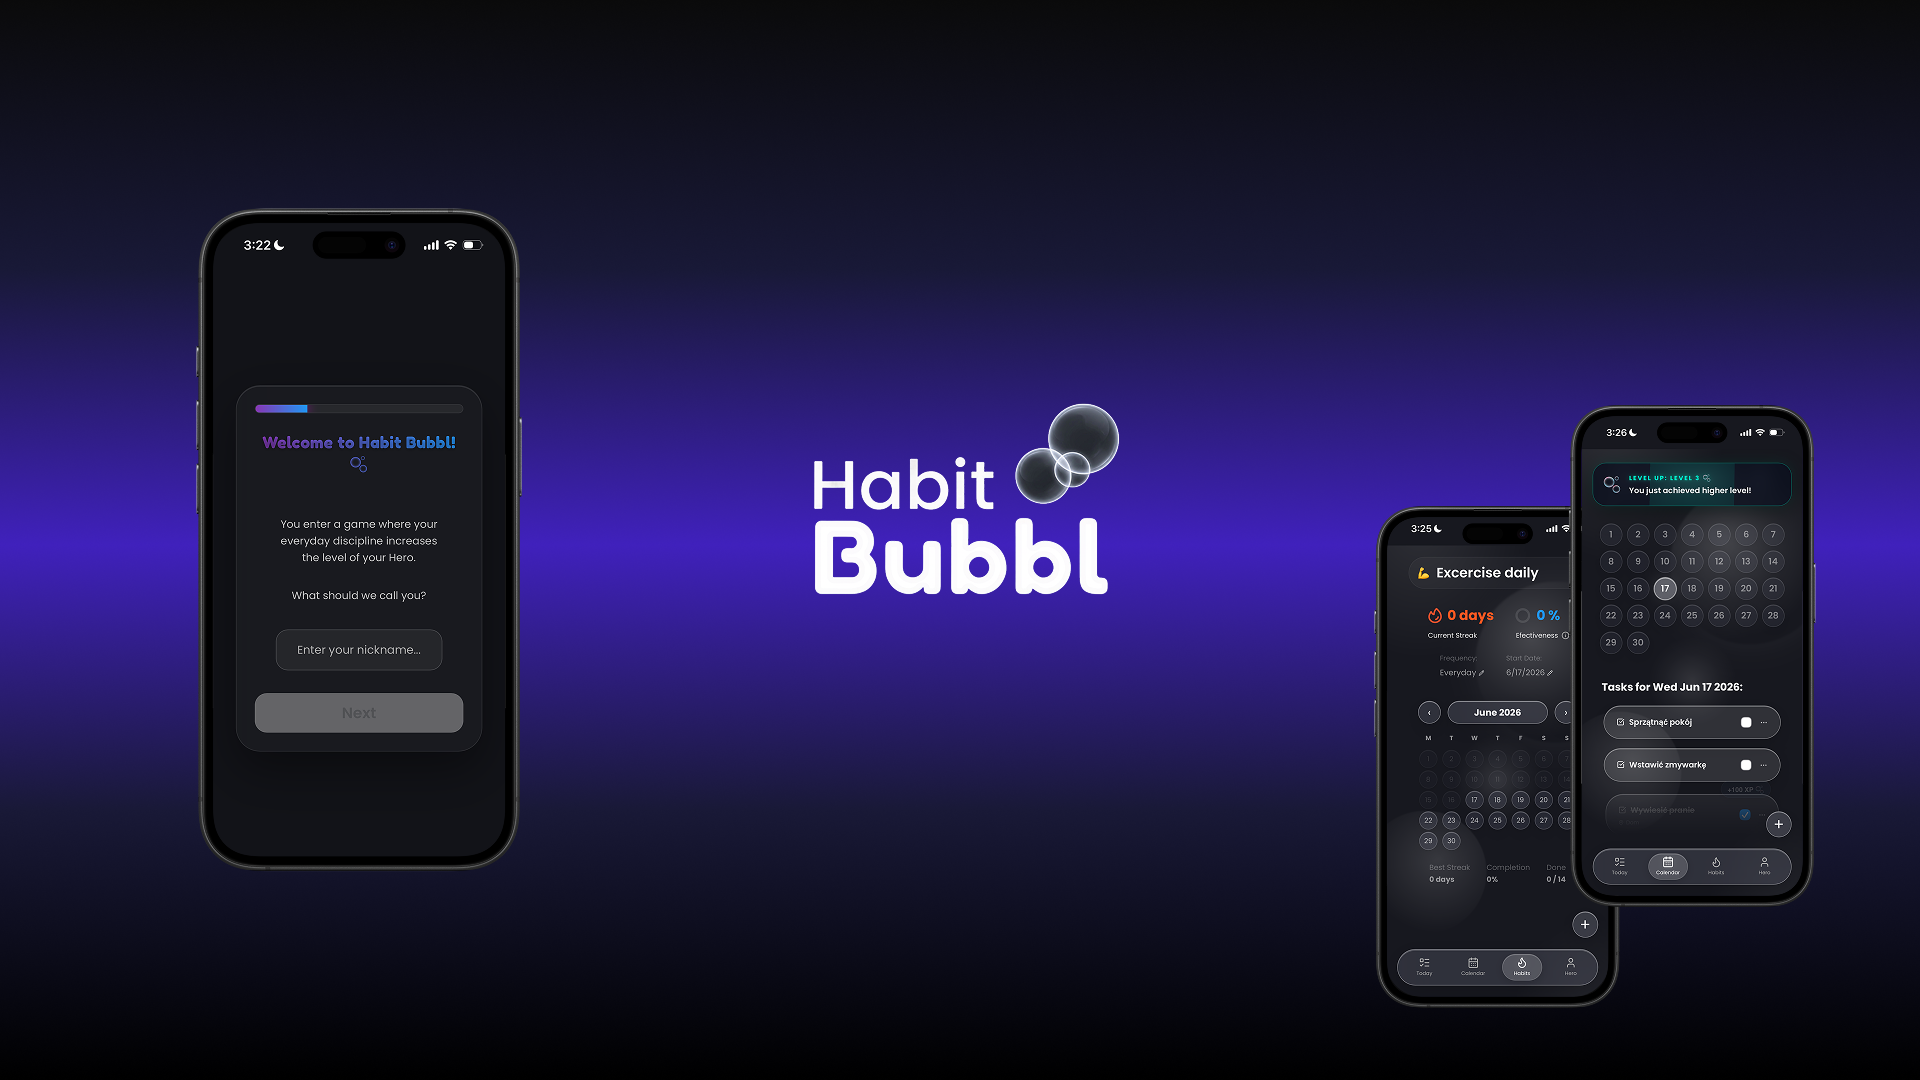
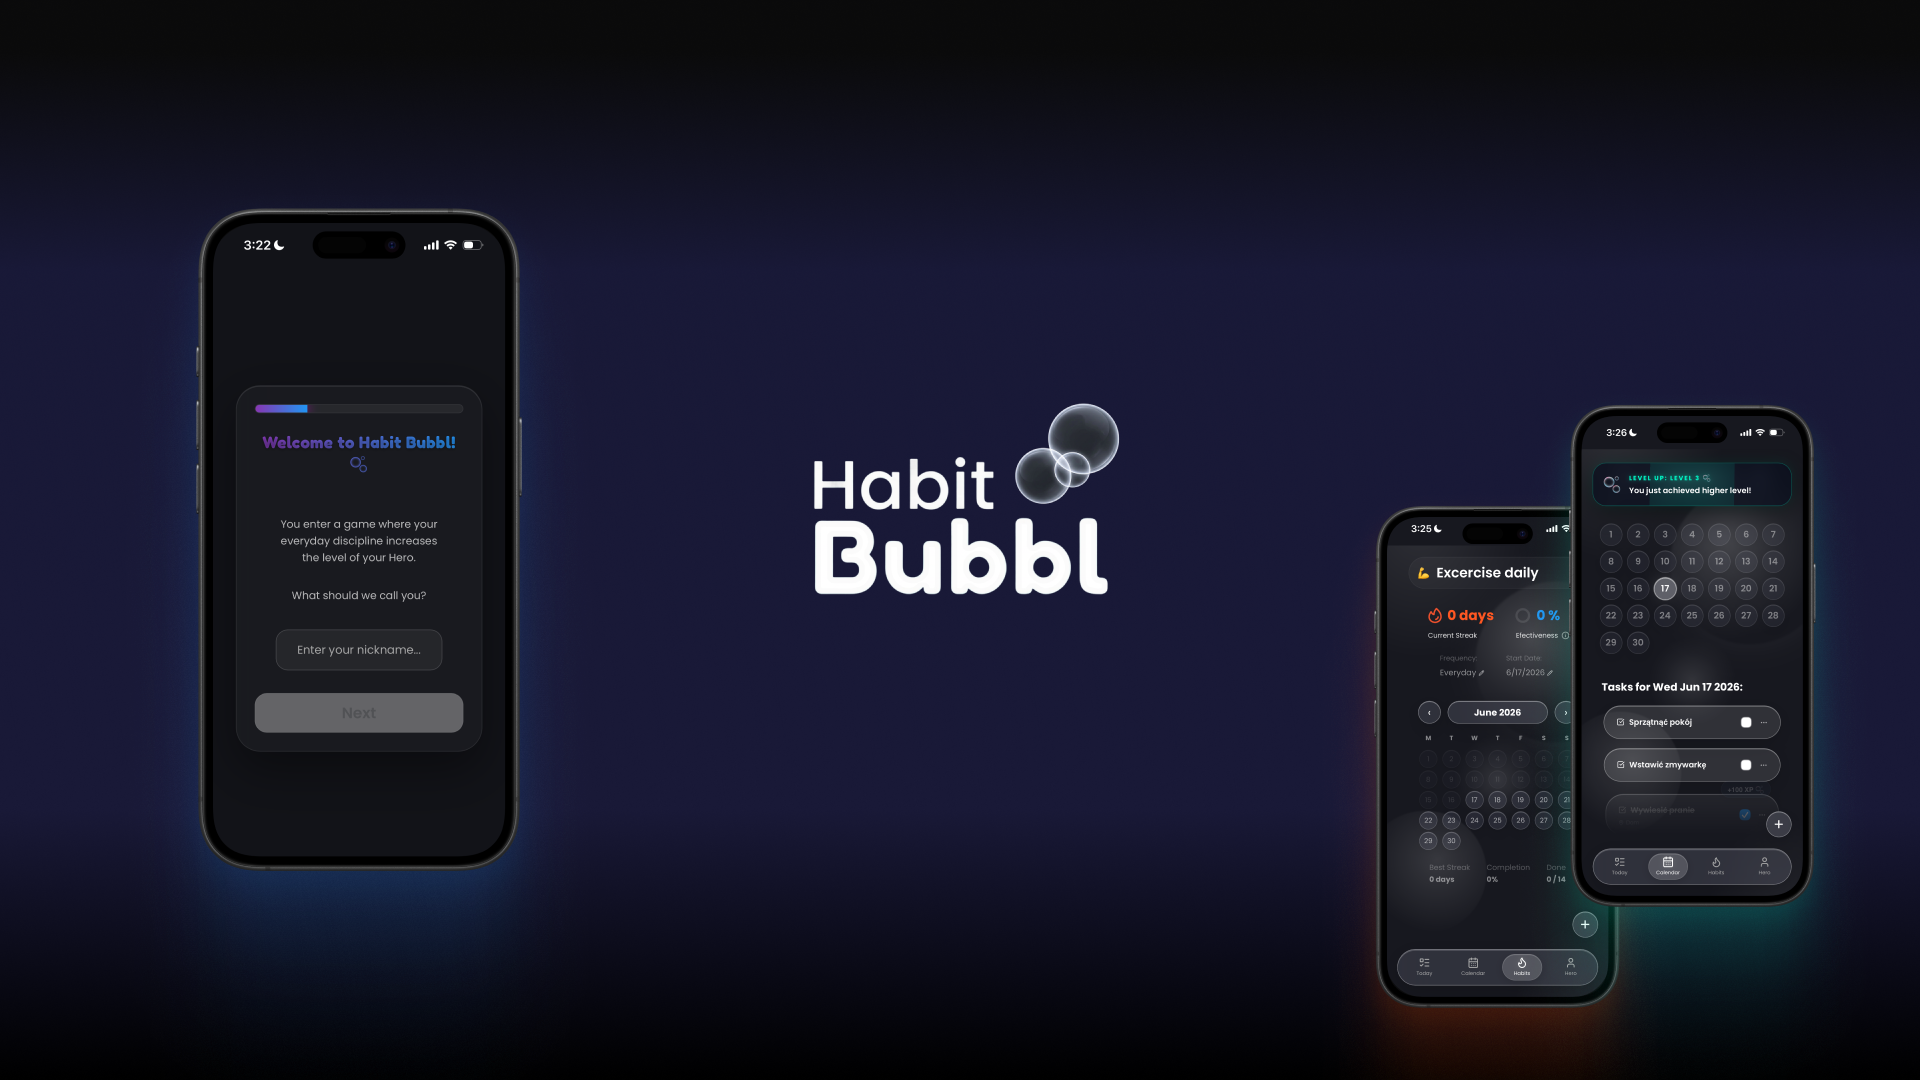
cv link in footer; graphics sizes in projects on main page are now unified; animation of card dealing is now more visible and more realistic; projects were moved to the projects folder; links begginings were unified - without a dot and slash

diff --git a/index.html b/index.html
@@ -501,6 +501,8 @@
         height: auto;
         max-width: 1100px;
         width: 88%;
+
+        will-change: transform, opacity;
       }
 
       .projectContainer:hover {
@@ -658,68 +660,10 @@
         transition: transform 0.3s;
         cursor: pointer;
       }
-      .gridGallery a:hover {
-        opacity: 84%;
-      }
-      /* ========================================================
-         EFEKT TALII KART (STARTOWY STAN PRZED WEJŚCIEM W WIDOK)
-         ======================================================== */
-      .reveal-section .projectContainer {
-        opacity: 0;
-        /* Startujemy w jednym punkcie (lekko przesunięte do środka, w dół i obrócone) */
-        transform: translateY(60px) scale(0.92)
-          rotate(var(--start-rotation, -2deg));
-        transition: transform 0.8s cubic-bezier(0.25, 1, 0.5, 1),
-          opacity 0.6s ease;
-      }
 
-      /* Nadajemy każdej karcie unikalną rotację startową, żeby imitowały zebraną talię */
-      .reveal-section .gridGallery > *:nth-child(1) .projectContainer {
-        --start-rotation: -3deg;
-      }
-      .reveal-section .gridGallery > *:nth-child(2) .projectContainer {
-        --start-rotation: 1deg;
-      }
-      .reveal-section .gridGallery > *:nth-child(3) .projectContainer {
-        --start-rotation: -1deg;
-      }
-      .reveal-section .gridGallery > *:nth-child(4) .projectContainer {
-        --start-rotation: 2deg;
-      }
-      .reveal-section .gridGallery > *:nth-child(5) .projectContainer {
-        --start-rotation: -2deg;
-      }
-
-      /* ========================================================
-            (ROZSUWANIE TALII)
-          ======================================================== */
-      .reveal-section.active .projectContainer {
-        opacity: 1;
-        transform: translateY(0) scale(1) rotate(0deg); /* Wskakują idealnie na swoje miejsca w gridzie */
-      }
-
-      /* Efekt płynnego rozdawania (staggered delay) - każda kolejna karta wysuwa się ułamek sekundy później */
-      .reveal-section.active .gridGallery > *:nth-child(1) .projectContainer {
-        transition-delay: 0.1s;
-      }
-      .reveal-section.active .gridGallery > *:nth-child(2) .projectContainer {
-        transition-delay: 0.25s;
-      }
-      .reveal-section.active .gridGallery > *:nth-child(3) .projectContainer {
-        transition-delay: 0.4s;
-      }
-      .reveal-section.active .gridGallery > *:nth-child(4) .projectContainer {
-        transition-delay: 0.55s;
-      }
-      .reveal-section.active .gridGallery > *:nth-child(5) .projectContainer {
-        transition-delay: 0.7s;
-      }
-
-      /* WAŻNE: Musimy upewnić się, że linki w galerii nie ucinają animacji */
       .gridGallery > * {
         display: block;
         text-decoration: none;
-        transition: transform 0.3s ease, box-shadow 0.3s ease;
       }
       .gridGallery a:hover {
         opacity: 1; /* hover bezpośrednio w kafelku, a nie na linku */
@@ -1183,6 +1127,7 @@
     <script src="/js/translations.js"></script>
   </head>
   <body>
+    <!-- HEADER (NAV) -->
     <header>
       <div class="headerNav">
         <a
@@ -1297,6 +1242,7 @@
       </div>
     </section>
 
+    <!-- CHEVRON -->
     <!-- 
     <div class="chevronDownWrapper">
       <a href="#projects">
@@ -1308,9 +1254,9 @@
     <!-- LOGOS -->
     <!-- <section class="logos" id="logos">
       <div class="logosWrapper" style="width: 80%; display: flex; align-items: center;">
-        <img src="./assets/index/logos-PlanetRoad.png" style="width: 50%" />
+        <img src="assets/index/logos-PlanetRoad.png" style="width: 50%" />
         <img
-          src="./assets/index/logos-ZPsiegoNaNasze.png"
+          src="assets/index/logos-ZPsiegoNaNasze.png"
           style="width: 50%"
         />
       </div>
@@ -1326,14 +1272,16 @@
         Moje Projekty
       </h2>
       <div class="gridGallery">
-        <a href="aplikacja-mobilna-monexo.html">
+        <a href="projects/aplikacja-mobilna-monexo.html">
           <div class="projectContainer">
             <img
               src="assets/index/monexo.png"
               alt="Zdjęcie przedstawia Stronę Internetową PlanetRoad"
             />
             <div class="descriptionWrapper">
-              <p class="title" data-i18n="projects_monexo_title">Aplikacja Mobilna Monexo</p>
+              <p class="title" data-i18n="projects_monexo_title">
+                Aplikacja Mobilna Monexo
+              </p>
               <p class="subtitle" data-i18n="projects_monexo_subtitle">
                 Jak wypełniłem lukę na rynku internetowej wymiany walut tworząc
                 prostą aplikację z transaparentnym podejściem?
@@ -1347,15 +1295,20 @@
           </div>
         </a>
 
-        <a href="strona-internetowa-PlanetRoad.html">
+        <a href="projects/strona-internetowa-PlanetRoad.html">
           <div class="projectContainer">
             <img
-              src="assets/index/PlanetRoad.jpg"
+              src="assets/index/PlanetRoad.png"
               alt="Zdjęcie przedstawia Stronę Internetową PlanetRoad"
             />
             <div class="descriptionWrapper">
-              <p class="title" data-i18n="projects_planetroad_website_title">Strona Internetowa PlanetRoad</p>
-              <p class="subtitle" data-i18n="projects_planetroad_website_subtitle">
+              <p class="title" data-i18n="projects_planetroad_website_title">
+                Strona Internetowa PlanetRoad
+              </p>
+              <p
+                class="subtitle"
+                data-i18n="projects_planetroad_website_subtitle"
+              >
                 Jak przebudowałem stronę firmową, aby umożliwiła klientom
                 poznanie pełnej oferty i doświadczenia PlanetRoad?
               </p>
@@ -1375,11 +1328,13 @@
             style="opacity: 0.56"
           >
             <img
-              src="assets/index/Kasia4.png"
+              src="assets/index/zpsiegonanasze.png"
               alt="Zdjęcie przedstawia Stronę Internetową PlanetRoad"
             />
             <div class="descriptionWrapper">
-              <p class="title" data-i18n="projects_zpsiegonanasze_title">Landing Page zpsiegonanasze</p>
+              <p class="title" data-i18n="projects_zpsiegonanasze_title">
+                Landing Page zpsiegonanasze
+              </p>
               <p class="subtitle" data-i18n="projects_zpsiegonanasze_subtitle">
                 Jak zbudowałem strategię rozwoju biznesu dzięki jakościowej
                 stronie docelowej?
@@ -1404,7 +1359,9 @@
               alt="Zdjęcie przedstawia Progresywną Aplikację HabitBubbl"
             />
             <div class="descriptionWrapper">
-              <p class="title" data-i18n="projects_habitbubbl_title">Progresywna Aplikacja HabitBubbl</p>
+              <p class="title" data-i18n="projects_habitbubbl_title">
+                Progresywna Aplikacja HabitBubbl
+              </p>
               <p class="subtitle" data-i18n="projects_habitbubbl_subtitle">
                 Jak stworzyłem aplikację, która pomaga, ludziom pokochać
                 produktywność?
@@ -1418,20 +1375,28 @@
           </div>
         </a>
 
-        <a href="identyfikacja-wizualna-PlanetRoad.html">
+        <a href="projects/identyfikacja-wizualna-PlanetRoad.html">
           <div class="projectContainer">
             <div class="gradientBackground">
               <img
                 style="width: 44%"
-                src="/assets/projects/identyfikacja-wizualna-PlanetRoad/PlanetRoad_logo_portfolio_white.png"
+                src="assets/projects/identyfikacja-wizualna-PlanetRoad/PlanetRoad_logo_portfolio_white.png"
                 alt="Zdjęcie przedstawia Okładkę Galerii moich grafik, interfejsów oraz ich rekonstrukcji"
               />
               <span>Identyfikacja Wizualna</span>
             </div>
             <div class="descriptionWrapper">
               <div>
-                <p class="title" data-i18n="projects_planetroad_visualidentity_title">Identyfikacja Wizualna PlanetRoad</p>
-                <p class="subtitle" data-i18n="projects_planetroad_visualidentity_subtitle">
+                <p
+                  class="title"
+                  data-i18n="projects_planetroad_visualidentity_title"
+                >
+                  Identyfikacja Wizualna PlanetRoad
+                </p>
+                <p
+                  class="subtitle"
+                  data-i18n="projects_planetroad_visualidentity_subtitle"
+                >
                   Jak wdrożyłem PlanetRoad w świat cyfrowy, tworząc spójną
                   komunikację wizualną?
                 </p>
@@ -1728,7 +1693,7 @@
         </a>
 
         <a
-          href="/assets/index/Marek_Wietecki_CV_2.8.pdf"
+          href="assets/index/Marek_Wietecki_CV_2.8.pdf"
           target="_blank"
           class="navLinks"
         >
@@ -1871,29 +1836,118 @@
     </script>
 
     <script>
-      // animacja kart produktowych
       document.addEventListener("DOMContentLoaded", () => {
-        const registrySection = document.querySelector(".reveal-section");
+        const section = document.querySelector(".reveal-section");
+        if (!section) return;
 
-        if (registrySection) {
-          const observerOptions = {
-            root: null, // obserwuje okno przeglądarki
-            threshold: 0.25, // odpala, gdy 15% sekcji wejdzie na ekran
-          };
+        const gallery = section.querySelector(".gridGallery");
+        const items = Array.from(gallery.children);
 
-          const observer = new IntersectionObserver((entries, observer) => {
-            entries.forEach((entry) => {
-              if (entry.isIntersecting) {
-                // Dodajemy klasę odpalaną w CSS
-                entry.target.classList.add("active");
-                // Wyłączamy obserwowanie, żeby animacja wykonała się tylko raz przy wejściu
-                observer.unobserve(entry.target);
-              }
-            });
-          }, observerOptions);
+        const STACK = [
+          { idx: 0, z: 1, rot: -5, delay: 0.7 },
+          { idx: 1, z: 3, rot: -1, delay: 0.4 },
+          { idx: 2, z: 5, rot: -3, delay: 0.05 },
+          { idx: 3, z: 2, rot: 4, delay: 0.55 },
+          { idx: 4, z: 4, rot: 2, delay: 0.2 },
+        ];
 
-          observer.observe(registrySection);
+        let observer = null;
+        let dealTimers = [];
+
+        function getCardOpacity(idx) {
+          const card = items[idx].querySelector(".projectContainer");
+          /* Jeśli karta jest disabled, zachowaj jej oryginalne opacity */
+          return card.classList.contains("disabled-project") ? "0.56" : "1";
         }
+
+        function setupStack() {
+          /* Anuluj ewentualne trwające timery rozdawania */
+          dealTimers.forEach((t) => clearTimeout(t));
+          dealTimers = [];
+
+          const galleryRect = gallery.getBoundingClientRect();
+          const stackCX = galleryRect.left + galleryRect.width / 2;
+          const stackCY = galleryRect.top + galleryRect.height * 0.18;
+
+          STACK.forEach(({ idx, z, rot }) => {
+            const card = items[idx].querySelector(".projectContainer");
+            const rect = items[idx].getBoundingClientRect();
+
+            const dx = stackCX - (rect.left + rect.width / 2);
+            const dy = stackCY - (rect.top + rect.height / 2);
+
+            card.style.transition = "none";
+            card.style.transform = `translate(${dx}px, ${dy}px) rotate(${rot}deg) scale(0.88)`;
+            card.style.opacity =
+              getCardOpacity(idx); /* ← zachowuje 0.56 dla disabled */
+            card.style.zIndex = z;
+          });
+        }
+
+        function dealCards() {
+          STACK.forEach(({ idx, delay }) => {
+            const card = items[idx].querySelector(".projectContainer");
+            const t = setTimeout(() => {
+              card.style.transition = `transform 0.9s cubic-bezier(0.19,1,0.22,1),
+             opacity   0.5s ease`;
+              card.style.transform = "translate(0,0) rotate(0deg) scale(1)";
+              card.style.zIndex = "";
+              /* opacity wraca do właściwej wartości (1 lub 0.56) */
+              card.style.opacity = getCardOpacity(idx);
+            }, delay * 1000);
+            dealTimers.push(t);
+          });
+        }
+
+        function isSectionVisible() {
+          const rect = section.getBoundingClientRect();
+          const windowHeight =
+            window.innerHeight || document.documentElement.clientHeight;
+          /* Sekcja widoczna w co najmniej 25% */
+          const visiblePx =
+            Math.min(rect.bottom, windowHeight) - Math.max(rect.top, 0);
+          return visiblePx / rect.height >= 0.25;
+        }
+
+        function attachObserver() {
+          if (observer) observer.disconnect();
+
+          observer = new IntersectionObserver(
+            (entries, obs) => {
+              entries.forEach((entry) => {
+                if (entry.isIntersecting) {
+                  dealCards();
+                  obs.unobserve(entry.target);
+                }
+              });
+            },
+            { threshold: 0.25 }
+          );
+
+          observer.observe(section);
+        }
+
+        function init() {
+          setupStack();
+
+          /* Jeśli sekcja jest już widoczna w momencie init() (np. po resize),
+         rozdaj od razu bez czekania na observer */
+          if (isSectionVisible()) {
+            dealCards();
+          } else {
+            attachObserver();
+          }
+        }
+
+        requestAnimationFrame(init);
+
+        let resizeTimer;
+        window.addEventListener("resize", () => {
+          clearTimeout(resizeTimer);
+          resizeTimer = setTimeout(() => {
+            init();
+          }, 150);
+        });
       });
     </script>
   </body>

diff --git a/oferta.html b/oferta.html
@@ -812,10 +812,10 @@
           </p>
 
           <div class="ctaButtons">
-            <a href="./index.html#projects" class="btnSecondary"
+            <a href="index.html#projects" class="btnSecondary"
               >Zobacz moje projekty</a
             >
-            <a href="./kontakt.html" class="btnPrimary"
+            <a href="kontakt.html" class="btnPrimary"
               >Porozmawiajmy o projekcie</a
             >
           </div>